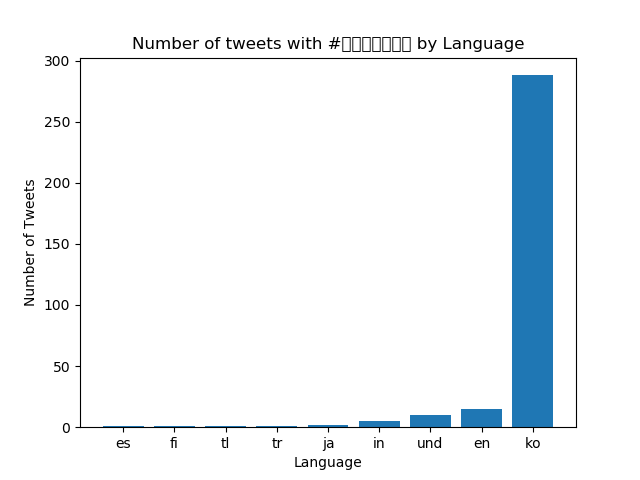
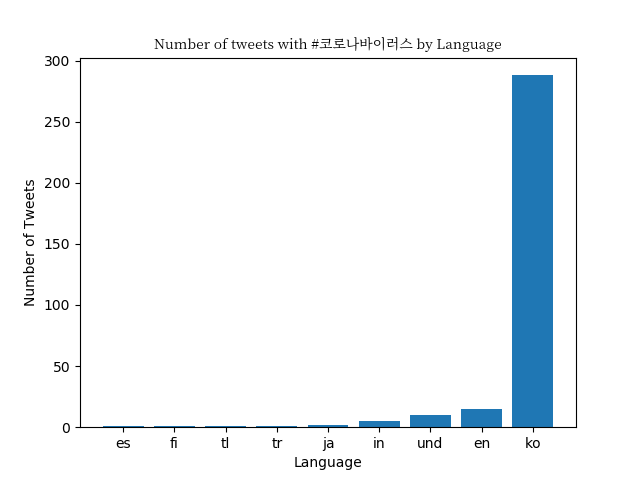
cleaned up code and made other graph

Changed region(s): [[0.1875, 0.0625, 0.8125, 0.125]]

diff --git a/src/visualize.py b/src/visualize.py
@@ -14,15 +14,14 @@ import json
 from collections import Counter,defaultdict
 import matplotlib
 import matplotlib.font_manager
+
 # Use this so that we can create graphs without printing them somewhere immediately
 matplotlib.use('Agg')
-# matplotlib.rcParams['font.family'] = 'NotoSerif' #['Source Han Sans TW', 'sans-serif', 'Noto Serif KR']
 path = '/home/chom/.fonts/NotoSerifKR-Regular.otf'
-prop = matplotlib.font_manager.FontProperties(fname=path)
-#matplotlib.rcParams['font.family'] = prop.get_name()
 fp = matplotlib.font_manager.FontProperties(fname=path)
 
 import matplotlib.pyplot as plt
+
 # open the input path
 with open(args.input_path) as f:
     counts = json.load(f)
